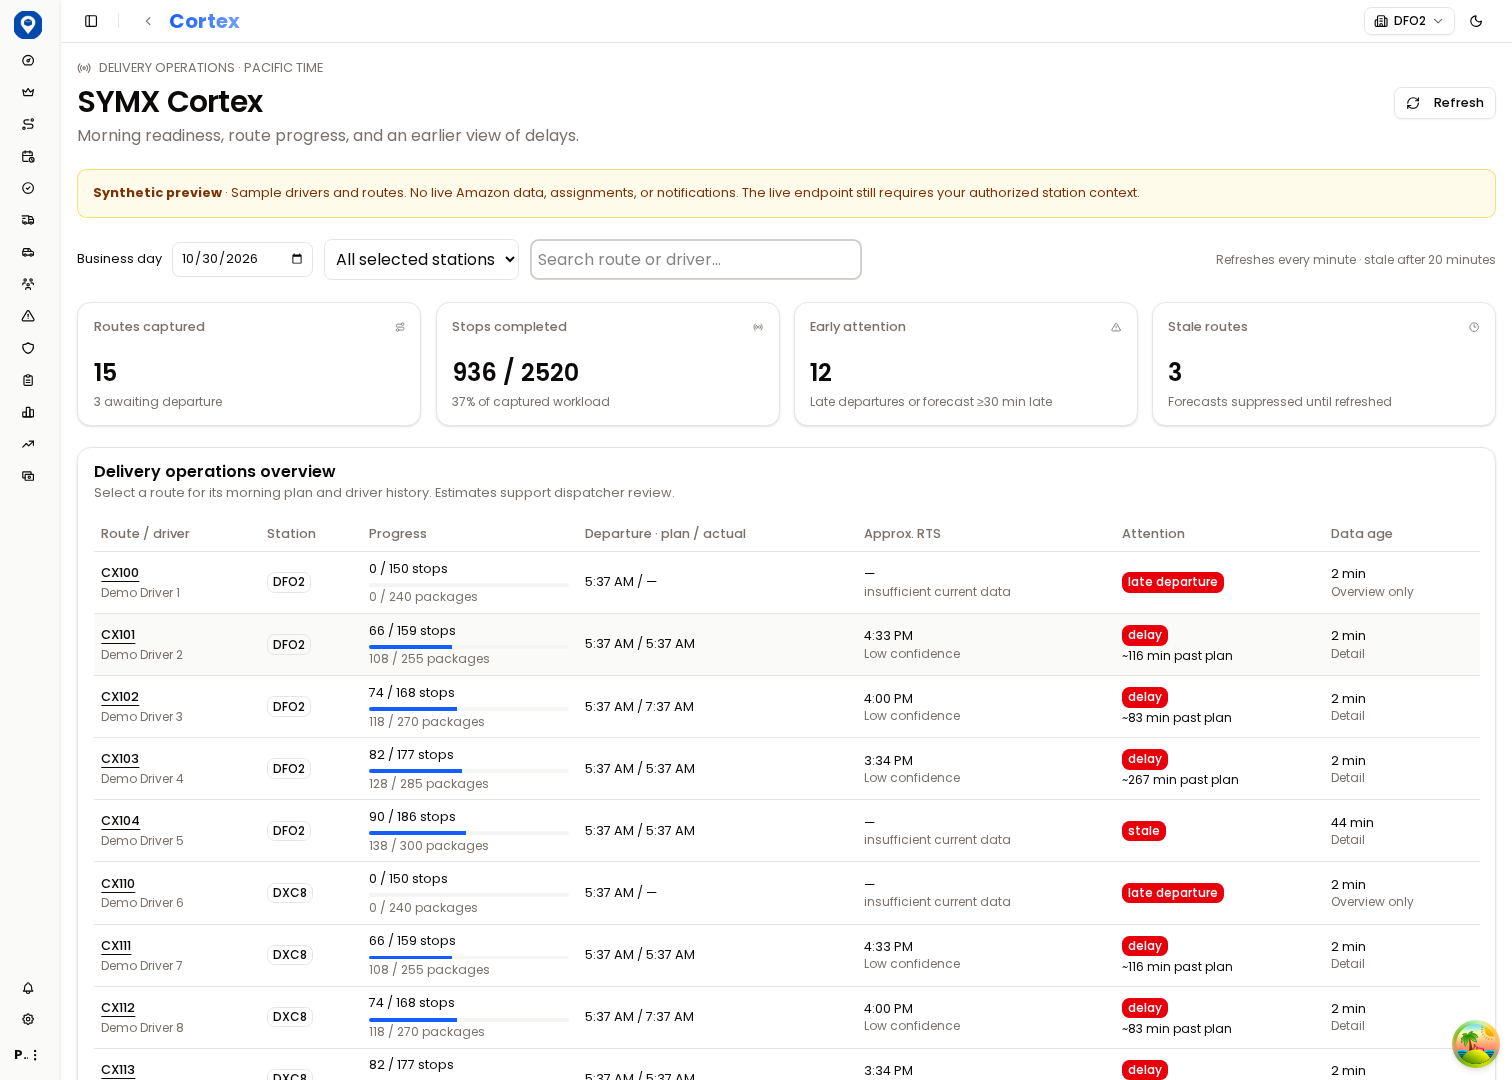
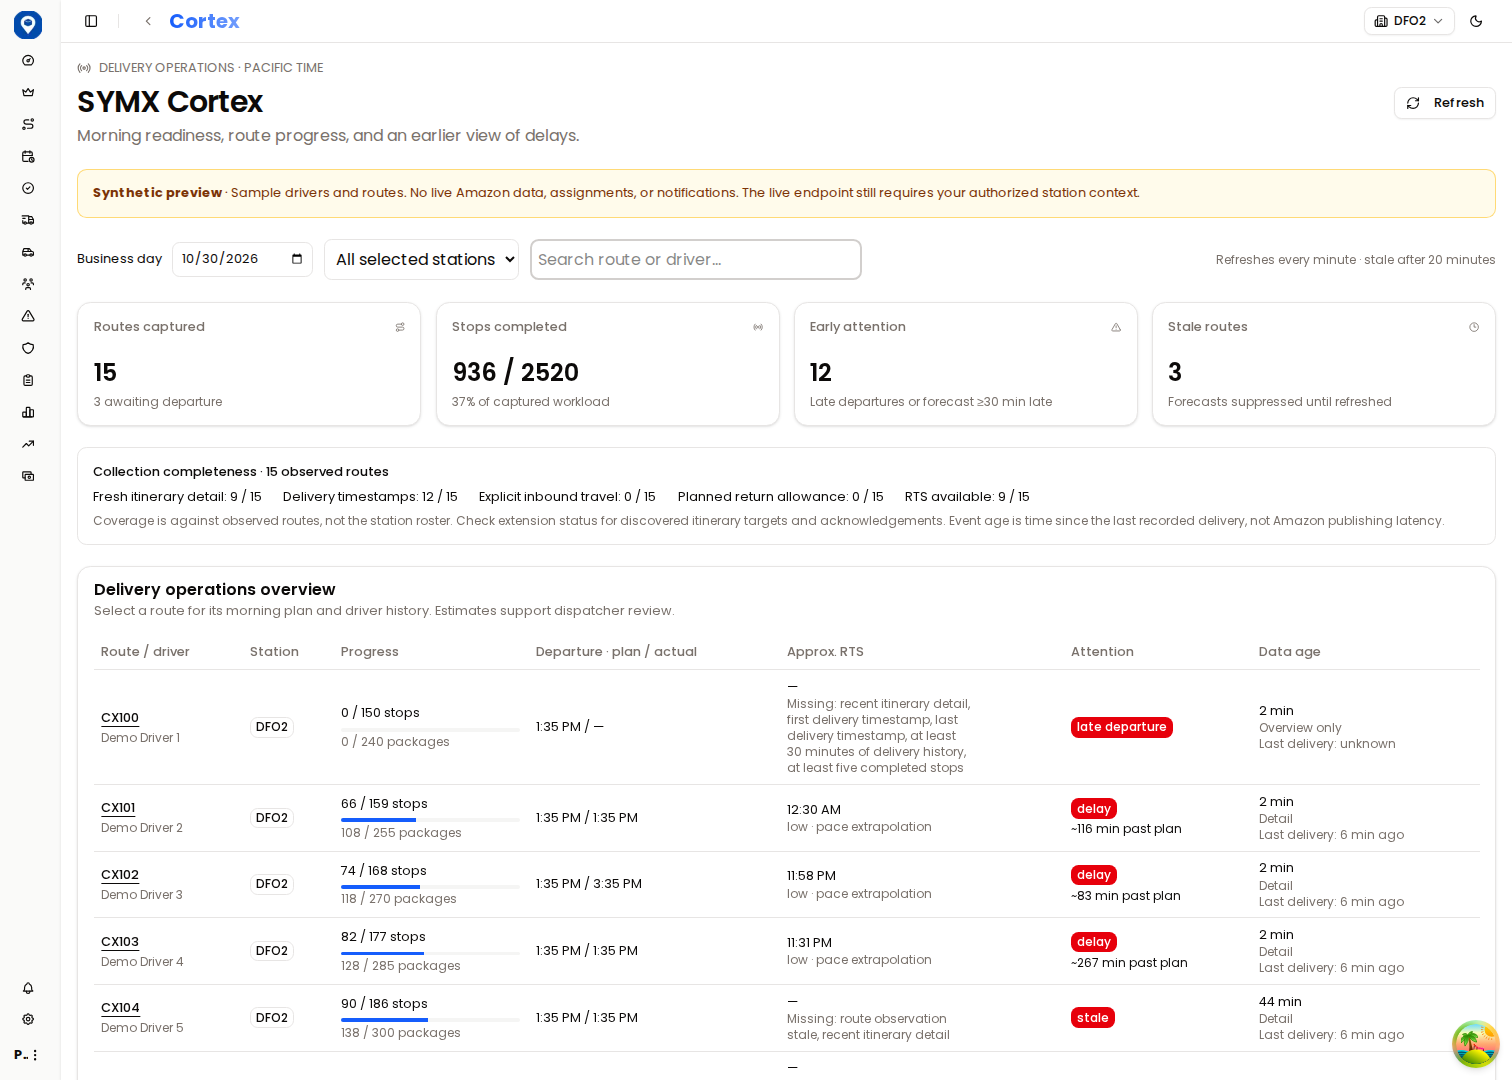
docs(cortex): record verified preview and DFO2 handoff [skip ci]

diff --git a/docs/SYMX_CORTEX_EVIDENCE_VALIDATION.md b/docs/SYMX_CORTEX_EVIDENCE_VALIDATION.md
@@ -4,7 +4,7 @@ This is an isolated follow-up to PR #13 on `codex/cortex-evidence-quality`, targ
 
 ## What the source review established
 
-The previous adapter only read `transporterTimeAttributes.plannedInboundStemTime`, dividing it by 60,000. The existing `app/api/public/cortex-sync/route.ts` instead derives a planned inbound allowance from `plannedRtsTime - lastStop.expectedStartTime`. `lib/cortex-time.ts` documents mixed epoch units and numeric millisecond durations. The new adapter also previously omitted `plannedRtsTime` and used the work-block end (`scheduleEndTime`) as a planned station return.
+The previous adapter only read `transporterTimeAttributes.plannedInboundStemTime`, dividing it by 60,000. The existing `app/api/public/cortex-sync/route.ts` instead derives a planned inbound allowance from `plannedRtsTime - lastStop.expectedStartTime`. `lib/cortex-time.ts` documents mixed epoch units and numeric millisecond durations. The collector also previously omitted `plannedRtsTime` and used the work-block end (`scheduleEndTime`) as a planned station return.
 
 These are verified code findings, not a fresh inspection of a signed-in Amazon response. No authenticated Amazon session or raw live customer payload was available for this assignment. They explain a likely compatibility gap; they do not prove every live DFO2 route has the required inputs.
 
@@ -48,15 +48,31 @@ Run the production build before starting the dev server if both share the same `
 
 The dashboard smoke verifies authentication, station/search filtering, history, ingestion, retry deduplication, and desktop/mobile UI. The extension smoke uses the actual unpacked MV3 extension against **40 synthetic DFO2 routes**, checks 40/40 detail acknowledgements and navigation pacing, verifies persisted timing evidence and its route dialog, and writes screenshots. Every Amazon request is intercepted with synthetic data. These scripts do not validate real Amazon compatibility.
 
+After the smoke scripts finish, keep the preview runner open. Visit `http://127.0.0.1:3000/login` and sign in with the generated credentials read privately from the state file. Open `/cortex?demo=1` for the labeled 15-route sample, or `/cortex` for the ingested synthetic observations. The smoke scripts seed synthetic station mappings; do not use `demo-DFO2` as a live mapping.
+
 For manual live development collection, load `symx-cortex-extension/` or unpack `artifacts/symx-cortex-extension-0.1.3.zip`, reload only the development extension, confirm version 0.1.3, enter the local test key and verified DFO2 service-area mapping, enable collection, sign in normally, and choose **Collect DFO2 now**. The partner extension remains untouched.
 
-## Checks in this assignment
+## Verified results and preview
 
-- Focused normalizer, forecast, worker, and collector tests: **74 passed**, including a fake-clock 40-target collector run. This is not a browser result.
-- TypeScript and optimized production build passed locally and in the isolated GitHub runner. The runner also passed the full MongoDB-backed suite; see PR #14 for the final browser result.
-- Full suite attempted: local MongoDB exits during startup with `open: Operation not permitted`; database suites cannot execute in this environment. No database test failure is represented as a pass.
-- Browser installation attempted: the official Chromium archive URL returned a 195-byte “Site Unavailable” HTML page. The real browser smoke and fresh screenshots could not run locally. Existing `artifacts/cortex-*.png` screenshots predate this change.
-- `.github/workflows/cortex-development.yml` reproduces full tests, typecheck, production build, disposable preview, and both synthetic browser smoke scripts in an isolated GitHub runner. It references no production secrets and cannot deploy. CI status must be checked on the follow-up PR; workflow presence alone is not a passing result.
+[GitHub Actions validation](https://github.com/aivisualpro/SYMXSystems/actions/runs/41155747790) passed on commit `2b84b9d0689f25df62e558b7f756c37f5cb663de`:
+
+- **347 tests passed across 25 files**, including MongoDB-backed integration tests and the fake-clock collector cases.
+- TypeScript checks and the optimized production build passed.
+- The dashboard browser smoke passed authentication, filtering, driver history, normalization → ingestion → storage → display, retry deduplication, and unauthenticated-access denial, with no browser errors.
+- The actual unpacked MV3 extension acknowledged **40/40 synthetic DFO2 itinerary details**, verified paced navigation and timing evidence through database readback and the route dialog, and made **43 intercepted GET requests with zero live Amazon requests**.
+- The screenshots below come from the isolated disposable preview. The 15-route sample dashboard and 40-route extension fixture are different scenarios. Running both scripts leaves 41 ingested routes: one ingestion case plus the 40-route extension fixture. The extension screenshot's run duration is a synthetic test measurement, not a live Amazon performance benchmark.
+
+| Preview | Screenshot |
+| --- | --- |
+| Desktop sample dashboard | [Desktop](../artifacts/cortex-desktop.png) |
+| Mobile sample dashboard | [Mobile](../artifacts/cortex-mobile.png) |
+| Captured observation in the dashboard | [Ingested route](../artifacts/cortex-ingested-route.png) |
+| Completed extension collection | [Extension status](../artifacts/cortex-extension-status.png) |
+| Route timestamp evidence and confidence | [Timing details](../artifacts/cortex-timing-evidence.png) |
+
+The local workspace passed focused tests, typecheck, and production build, but could not start MongoDB (`open: Operation not permitted`) or download Chromium (the archive endpoint returned an HTML block page). The full database and browser results above were obtained in the GitHub runner. A persistent interactive preview is not hosted by this workflow; use the local reproduction commands above.
+
+`.github/workflows/cortex-development.yml` reproduces the full suite, typecheck, production build, disposable preview, and both synthetic browser smoke scripts. It uses no production secrets and contains no deployment step. The development extension archive is [symx-cortex-extension-0.1.3.zip](../artifacts/symx-cortex-extension-0.1.3.zip).
 
 ## Remaining authorized DFO2 validation
 

diff --git a/docs/SYMX_CORTEX_MVP.md b/docs/SYMX_CORTEX_MVP.md
@@ -8,7 +8,7 @@ See [collector 0.1.3 evidence findings and current validation limits](SYMX_CORTE
 
 - `/cortex` adds a read-only delivery operations dashboard under Dispatching → SYMX Cortex, using existing office authentication, Dispatching view permission, and server-side station scoping.
 - Overview: planned/actual departures, stop/package progress, capture age, overview/detail coverage, delay attention, and route search. Select a route for its morning plan and the driver's last 14 days of captured history at that station.
-- RTS is a low-confidence estimate from at least five completed stops and 30 minutes of observed delivery work, plus planned inbound stem. Stale observations (over 20 minutes) and insufficient data suppress predictions. A forecast ≥30 minutes past plan or departure >15 minutes late raises an attention flag. Traffic, future breaks, rescues, and route changes are not predicted. No automated dispatch decisions are made.
+- RTS is a low-confidence estimate from at least five completed stops and 30 minutes of observed delivery work, plus explicit planned inbound stem or a labeled planned return allowance. Collector 0.1.3 uses fully timestamped completed-stop intervals and displays missing inputs; see the evidence validation guide above. Stale observations (over 20 minutes) and insufficient data suppress predictions. A forecast ≥30 minutes past plan or departure >15 minutes late raises an attention flag. Traffic, future breaks, rescues, and route changes are not predicted. No automated dispatch decisions are made.
 - `symx-cortex-extension/` is a separate, opt-in MV3 development collector. It observes successful requests made by the signed-in Amazon page, including overview and pre-start `RMSRoute` details, and navigates the page to individual routes. It never signs or directly issues Amazon API requests, spoofs visibility, modifies assignments, or automates login.
 - Collection is staggered across configured DFO2, DXC8, and DFO3 service areas, every five minutes from 07:00 through 23:59 Pacific while Chrome is running. Existing open Cortex pages also provide passive observations. Browser suspension or signed-out sessions are reported as partial/timeout, not success.
 - The partner's extension is untouched. The legacy `chrome-extension/` directory is untouched relative to PR #12; its three foundation commits are inherited.
@@ -65,7 +65,7 @@ Read APIs authorize before querying, apply `siteFilter` in MongoDB, and return n
 
 Automated coverage includes real MongoDB ingestion, duplicate retries, out-of-order arrivals, malformed and future captures, bad keys and unknown stations, empty/unrelated scopes, permission denials, production demo rejection, Pacific dates/DST, stale and insufficient-data forecasts, normalizers, restart recovery, concurrency, permanent failures, opt-in controls, and production-origin rejection. Existing model guard/registry regressions were corrected without changing their access model.
 
-Before approving use with real data, validate all three station mappings and current Amazon response shapes in an authorized session, especially pre-start RMSRoute details, route/driver reassignment and rescues, planned return timestamps, Chrome background throttling, full route coverage within the eight-minute run budget, browser restart recovery, and RTS accuracy against actual returns. Large stations may take more than eight minutes to visit every route; partial captures remain explicit. Service area IDs and live Cortex authentication are not available in this cloud task.
+Prioritize DFO2: validate its authorized station mapping and current Amazon response shapes in an authorized session before expanding to other stations, especially pre-start RMSRoute details, route/driver reassignment and rescues, planned return timestamps, Chrome background throttling, full route coverage within the eight-minute run budget, browser restart recovery, and RTS accuracy against actual returns. Large stations may take more than eight minutes to visit every route; partial captures remain explicit. Service area IDs and live Cortex authentication are not available in this cloud task.
 
 No shared cloud preview URL is generated by this environment's tools. The local authenticated preview, reproducible smoke commands, and captured screenshots are provided instead. Production rollout, monitoring, credential rotation, and any merge require separate review.
 
